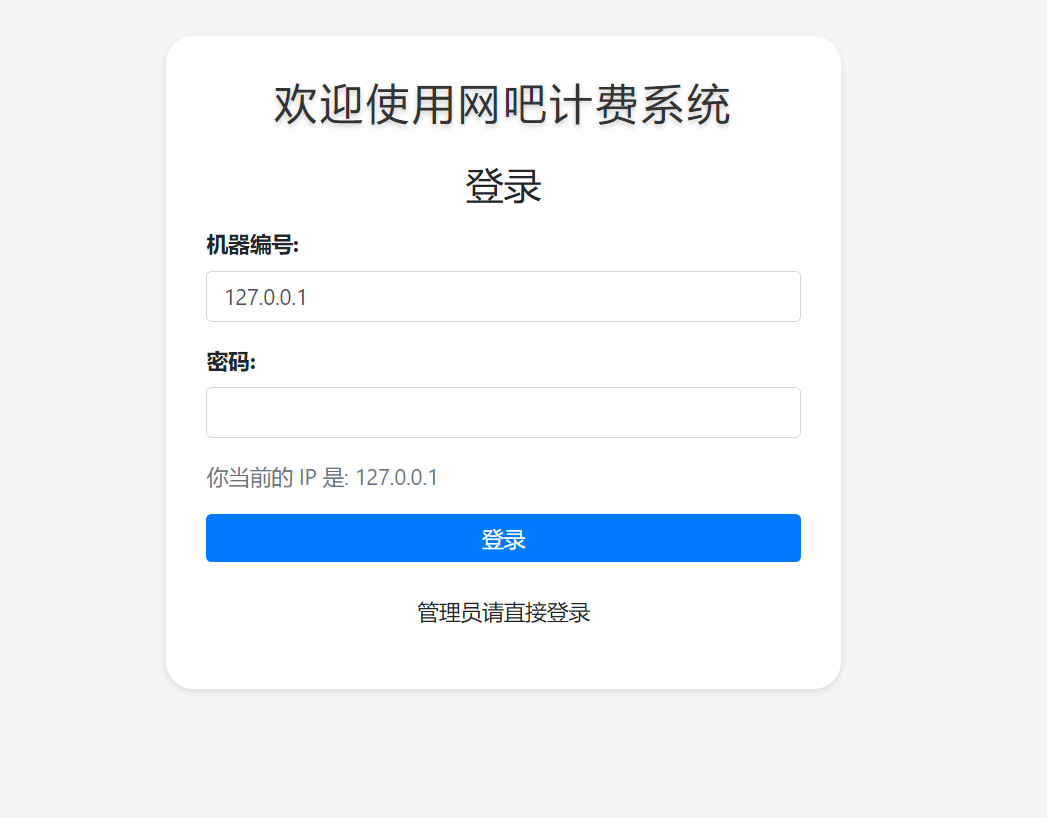
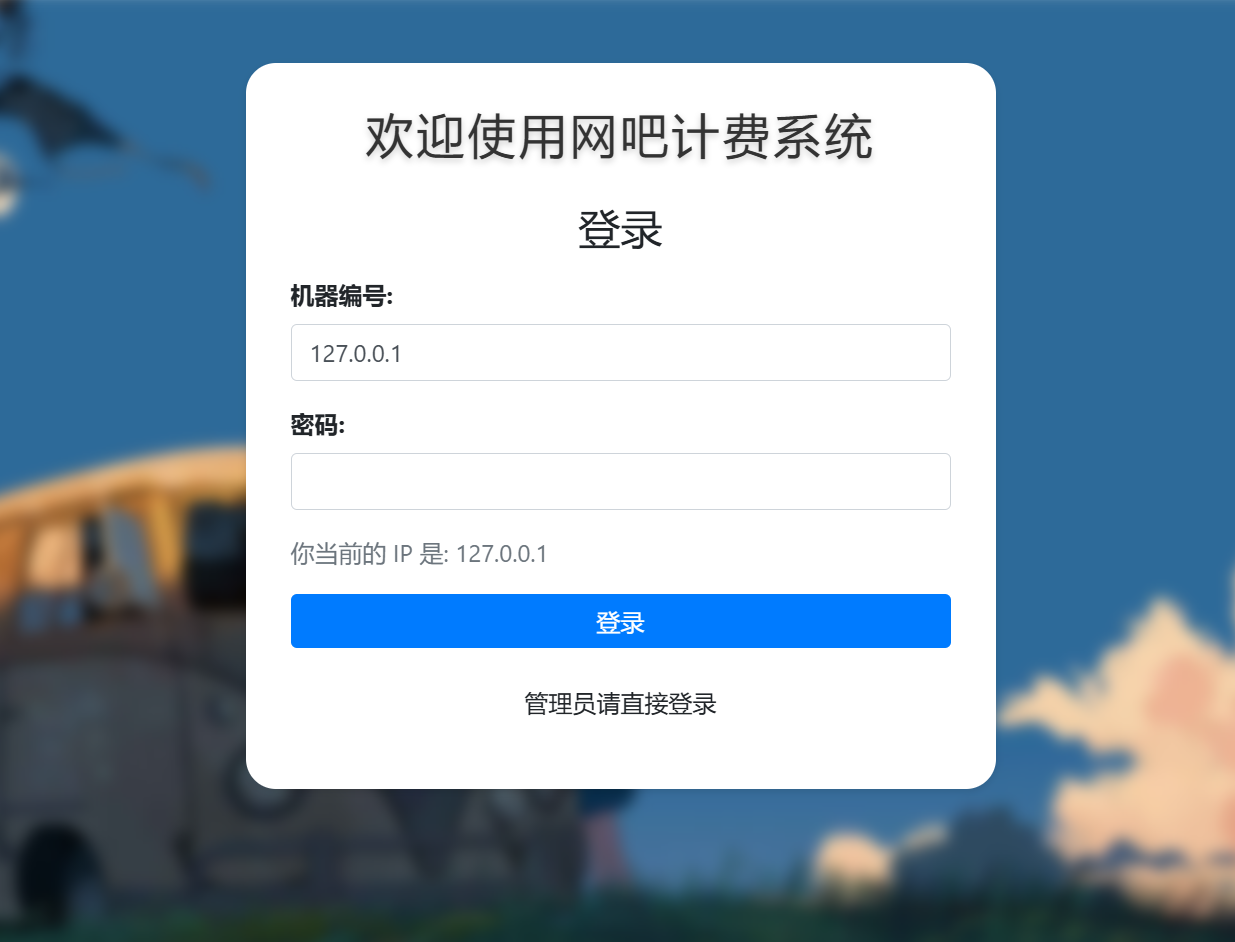
添加了背景图片和图片模糊

diff --git a/templates/index.html b/templates/index.html
@@ -3,7 +3,36 @@
 <head>
     <title>网吧计费系统</title>
     <link rel="stylesheet" href="https://cdn.jsdelivr.net/npm/bootstrap@4.6.2/dist/css/bootstrap.min.css">
-    <style>
+        <div class="bg">
+          <img src="../static/desktop1.jpg" alt="" class="bg-image" />
+        </div>
+        <style>
+            .bg {
+            position: fixed; /* Keep it fixed to the viewport */
+            top: 0; /* Position it at the top */
+            left: 0; /* Position it at the left */
+            width: 100%; /* Full width of the viewport */
+            height: 100%; /* Full height of the viewport */
+            overflow: hidden; /* Prevent scrollbars if the image is larger */
+            z-index: -1; /* Make sure it stays behind other content */
+          }
+            .bg-image {
+            width: 100%; /* Image fills the container width */
+            height: 100%; /* Image fills the container height */
+            object-fit: cover; /* Maintain aspect ratio and cover the entire area */
+            filter: blur(5px); /* Blur effect */
+          }
+          .bg-image::after {
+            content: "";
+            display: block;
+            background: rgba(0, 0, 0, 0.5); /* Semi-transparent black overlay */
+            position: absolute; /* Position it within the image container */
+            top: 0;
+            left: 0;
+            right: 0;
+            bottom: 0;
+            z-index: 1; /* Make sure it's on top of the blurred image */
+          }
         body {
             background-color: #f4f4f4;
         }

diff --git a/templates/dashboard.html b/templates/dashboard.html
@@ -1,7 +1,7 @@
 <!DOCTYPE html>
 <html>
 <head>
-    <meta http-equiv="refresh" content="20">
+    <meta http-equiv="refresh" content="60">
     <title>用户面板</title>
     <link rel="stylesheet" href="https://cdn.jsdelivr.net/npm/bootstrap@4.6.2/dist/css/bootstrap.min.css">
     <link rel="stylesheet" href="https://cdnjs.cloudflare.com/ajax/libs/font-awesome/6.4.0/css/all.min.css">

diff --git a/templates/admin_dashboard.html b/templates/admin_dashboard.html
@@ -50,7 +50,7 @@
             border-radius: 15px;
             box-shadow: 0 4px 8px rgba(0,0,0,0.1); /* Add shadow */
             margin: 20px auto; /* Center the panel */
-            max-width: 900px; /* Limit the width of the panel */
+            max-width: 1000px; /* Limit the width of the panel */
         }
     </style>
 </head>

diff --git a/README.md b/README.md
@@ -2,10 +2,9 @@
 ### 这是一个小学期实训作业，基于flask框架,完成了一个网吧管理系统。
 # 运行样图
 ![控制面板](images/login.png)
-![控制面板](images/screen3.png)
-![控制面板](images/screen2.png)
-![图片](images/admin5.png)
-![控制面板](images/screen1.png)
+![控制面板](images/screen10.png)
+![控制面板](images/admin1.png)
+![图片](images/admin2.png)
 # 部署：
 ### 安装所需的库，
 ``` 
